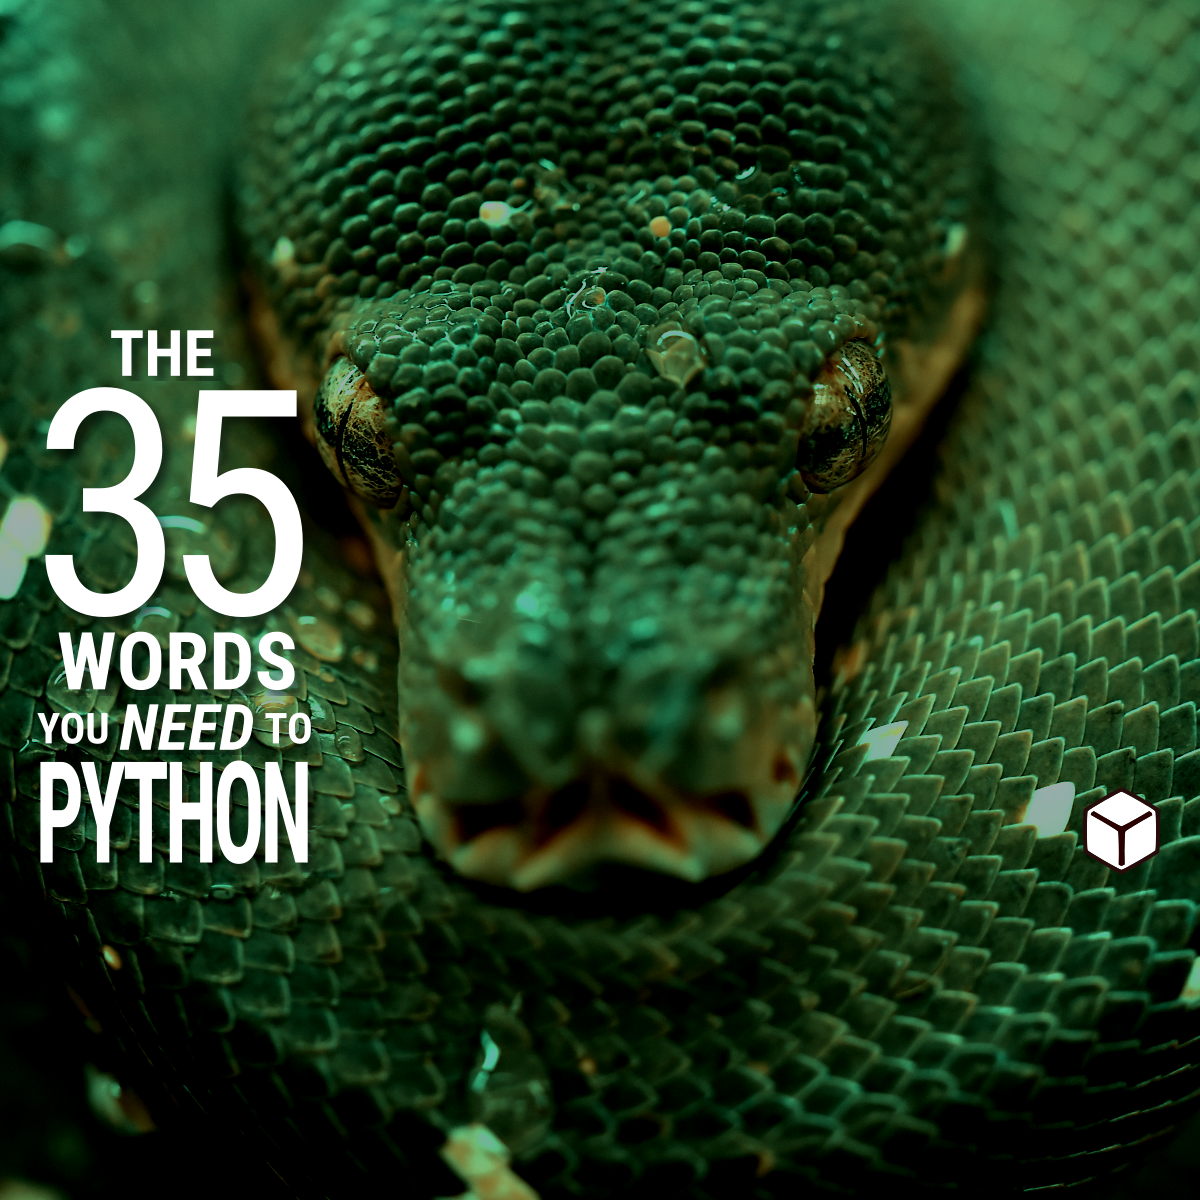
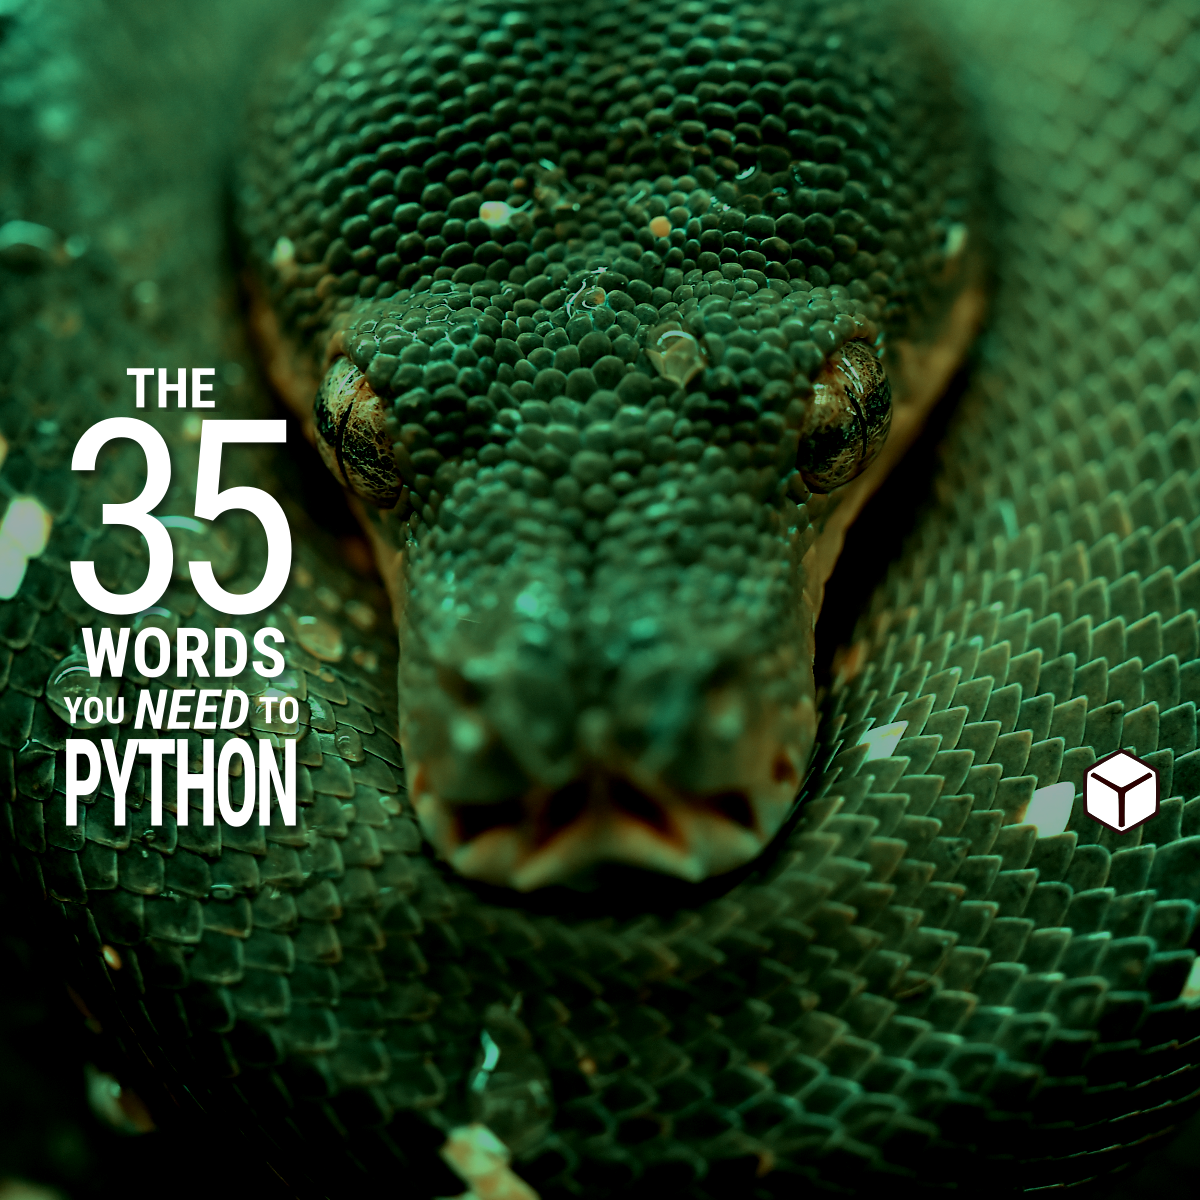
Update opengraph image.
Original image conflicted with dev.to standard.

Changed region(s): [[0.0308, 0.2775, 0.2775, 0.74], [0.8942, 0.6167, 0.9867, 0.74]]

diff --git a/content/posts/the-35-words-you-need-to-python/index.md b/content/posts/the-35-words-you-need-to-python/index.md
@@ -9,7 +9,7 @@ summary = "Let's face it, learning to _write_ computer programs is _hard_. Doing
 
 +++
 
-## In the Beginning, there were the Words
+## In the Beginning were Python's Keywords
 
 Let's face it, learning to _write_ computer programs is _hard_. Doing so involves picking up a lot of specialized skills and jargon, most of which is unfamiliar, and it also means cultivating a mental approach to the world that, at first, might seem downright _alien_. It's a long journey, but fluency starts with learning how to _read_ computer programs, and that _really_ shouldn't be so hard.
 
@@ -26,7 +26,7 @@ To make that task a little easier I'm going to try, in this post and the ones th
 
   [^1]: There are 35 keywords as of Python 3.7, the current major version of the language as of the time of writing. New keywords are added quite rarely, and it's even more rare for keywords to be removed, but in whatever version you're on you can use `from keyword import kwlist; print(kwlist)` to view the current list.
 
-That's right; the entire vocabulary of Python you actually _need_ to know to start to do meaningful work is just 35 words. It's not the smallest language, but it's _far_ from the largest, and just compare it to the roughly 10,000 words required to achieve basic _native_ fluency in a non-programming language.
+That's right; the entire vocabulary of Python you actually _need_ to know to start to do meaningful work is just 35 keywords. It's not the smallest language, but it's _far_ from the largest, and just compare it to the roughly 10,000 words required to achieve basic _native_ fluency in a non-programming language.
 
 ### First, Some Conventions
 
